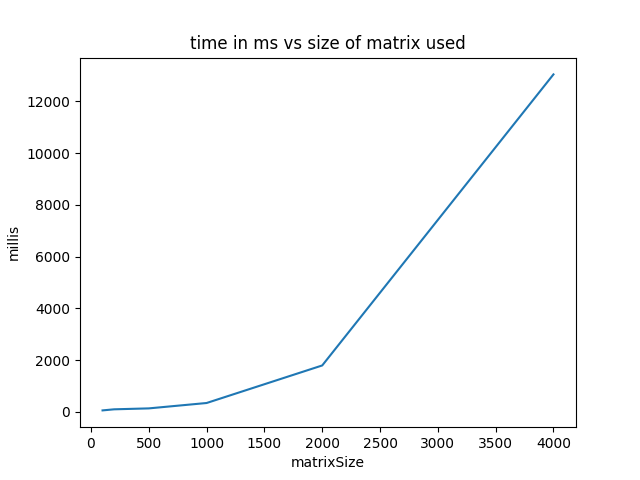
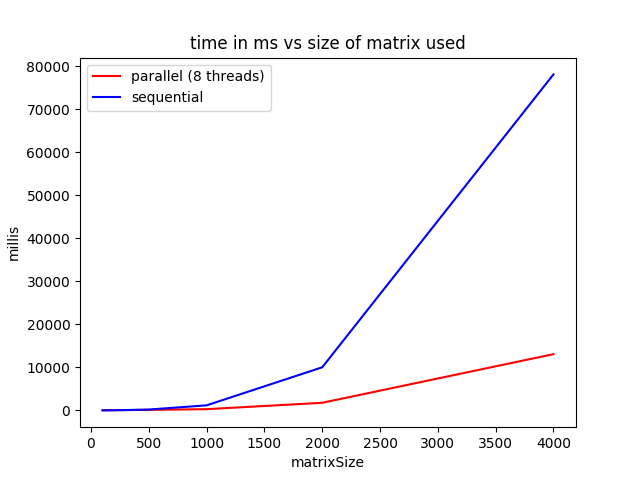
matrix_size benchmark plot .png includes sequential matrix mult, not just parallelized one

diff --git a/01/report/report.tex b/01/report/report.tex
@@ -51,10 +51,12 @@ This explains why the curve appears to rise slowly and monotonically after 8 thr
     \includegraphics[width=0.5\textwidth]{matrix_size_plot.png}
 \end{figure}
 
-The above graph depicts a function rising at an increasing rate. There is not enough data to model
-the function exactly, though a low-order polynomial like $O(n^3)$ is expected since the matrix
-multplication algorithm used runs in $O(n^3)/k$ where $k$ is the number of cores/threads and is
-constant.
+The above graphs depicts two function that rise at increasing rates. There is not enough data to
+model the functions exactly, but low-order polynomials like $O(n^3)$ are expected since the algorithm
+used for matrix multiplication runs in $O(n^3)$. The parallelized algorithm runs in $O(n^3/k)$ where
+the constant $k$ is the number of threads, so the graphs above are reasonable since the parallelized
+graph looks like it is proportional to the sequential one with a rate of proportionality equal to
+$1/k$.
 
 \pagebreak
 

diff --git a/01/code/scripts/parallel_benchmarks/matrix_size/matrix_size_plot.py b/01/code/scripts/parallel_benchmarks/matrix_size/matrix_size_plot.py
@@ -20,6 +20,7 @@ plt.plot(df['matrixSize'], df['millisSeq'], "b", label='sequential')
 plt.xlabel('matrixSize')
 plt.ylabel('millis')
 plt.title('time in ms vs size of matrix used')
+plt.legend()
 
 # path to .png of matrix size benchmark
 png_path = this_path / 'matrix_size_plot.png'
